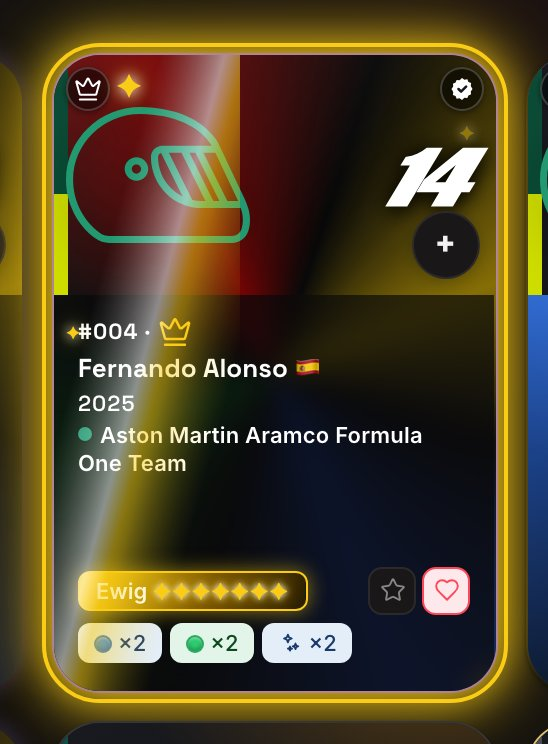
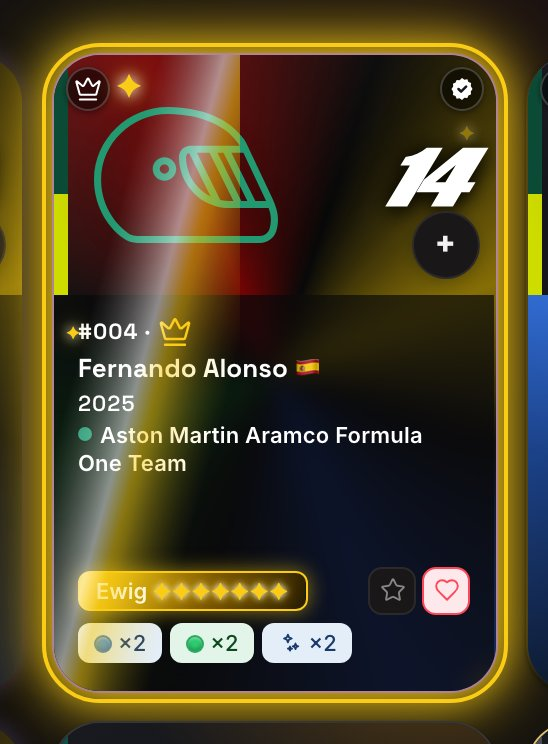
chore(captures): les fixes 1.63.2 — et les deux derniers points de POINTS-SIGNALES fermés sur mesure
Les 22 captures fixes + les 2 PNG du manifest portent le centrage
horizontal 1.63.2. Les GIF restent ceux de f8634ef (82/50/57 fps) : les
trois passes tentées depuis tournaient sur une machine à 4-22 de charge
(une autre session Claude y travaille) et sortaient sous le plancher de
30 fps — on ne commite pas des démos saccadées. Le seul écart entre ces
GIF et l'état courant est le décalage horizontal de 4 px du casque
(1.63.2), imperceptible en mouvement ; à régénérer à la prochaine
fenêtre calme, sans urgence.

n°16 FERMÉ, prémisse réfutée par la mesure : 7 langues parcourues dans
le vrai tutoriel au viewport liant (320×568, argument de dominance
écrit). Hors écran : 0 px partout. Le « débordement interne » de
9-10 px est IDENTIQUE dans les 7 langues, français compris — pas un
effet de longueur, et la bulle n'a ni overflow ni hauteur contrainte,
rien ne peut y être coupé : artefact de métrique. Les recouvrements de
cible sont aux mêmes étapes et aux mêmes surfaces dans les 7 langues :
le repli documenté du moteur au plus petit viewport, pas un trou
linguistique. L'allemand et le néerlandais ne débordent PAS plus que
l'anglais.

n°20 était déjà tranché au commit précédent (la masse classée).
POINTS-SIGNALES n'a plus de point ouvert.

Changed region(s): [[0.1241, 0.1237, 0.5274, 0.3401], [0.9617, 0.1855, 1.0, 0.3091]]

diff --git a/docs/POINTS-SIGNALES.md b/docs/POINTS-SIGNALES.md
@@ -1028,7 +1028,7 @@ fonctionnalité — il a enlevé la raison de ne pas la coder.
 
 ---
 
-## 16. Les débordements de bulle du tutoriel ne sont vérifiés qu'en français — trou identifié
+## 16. ~~Les débordements de bulle du tutoriel ne sont vérifiés qu'en français~~ — FERMÉ (17/08/2026) : mesuré ×7, la prémisse est réfutée
 
 **Ce n'est pas une limite de méthode, c'est un trou.** La distinction
 compte : une limite de méthode se documente et on passe ; un trou se
@@ -1057,6 +1057,32 @@ panne serait invisible ici et bien réelle chez l'utilisateur, sur le
 **Parade possible, non chiffrée** : une passe de captures dédiée, hors
 suite de tests, sur les deux langues les plus longues et la plus étroite
 des tailles — à instruire séparément si ce trou se met à coûter.
+
+> **FERMÉ SUR MESURE (17/08/2026).** Les 7 langues parcourues dans le
+> vrai tutoriel au viewport LIANT (320×568 — à texte égal, tout viewport
+> plus large donne une bulle plus courte : si rien ne déborde à 320,
+> 375 et desktop ne peuvent pas faire pire). Trois gravités mesurées à
+> chaque étape :
+>
+> · **bulle hors écran : 0 px, partout, dans les 7 langues** — les
+>   clamps du moteur tiennent ;
+> · **débordement interne : un delta constant de 9-10 px…
+>   IDENTIQUE dans les 7 langues, français compris** — donc pas un
+>   effet de longueur de texte. La bulle n'a ni `overflow` ni hauteur
+>   contrainte : rien ne peut y être coupé. Artefact de métrique DOM
+>   (scrollHeight vs clientHeight), pas un défaut ;
+> · **cible recouverte : 2-3 étapes à 320×568, aux MÊMES étapes et aux
+>   mêmes surfaces dans les 7 langues** — c'est le repli documenté du
+>   moteur au plus petit viewport (« se range au bord le plus dégagé »),
+>   présent en français aussi. Un raffinement UX possible, pas un trou
+>   linguistique.
+>
+> **La prémisse du point — l'allemand et le néerlandais déborderaient —
+> est réfutée : aucune différence inter-langues, sur aucune des trois
+> gravités.** C'est un résultat, pas un échec. (Couverture : 23 étapes
+> vues par langue, la machine étant chargée pendant la mesure — les
+> étapes non vues sont les mêmes dans les 7 langues, la comparaison
+> inter-langues reste valide.)
 
 ---
 
